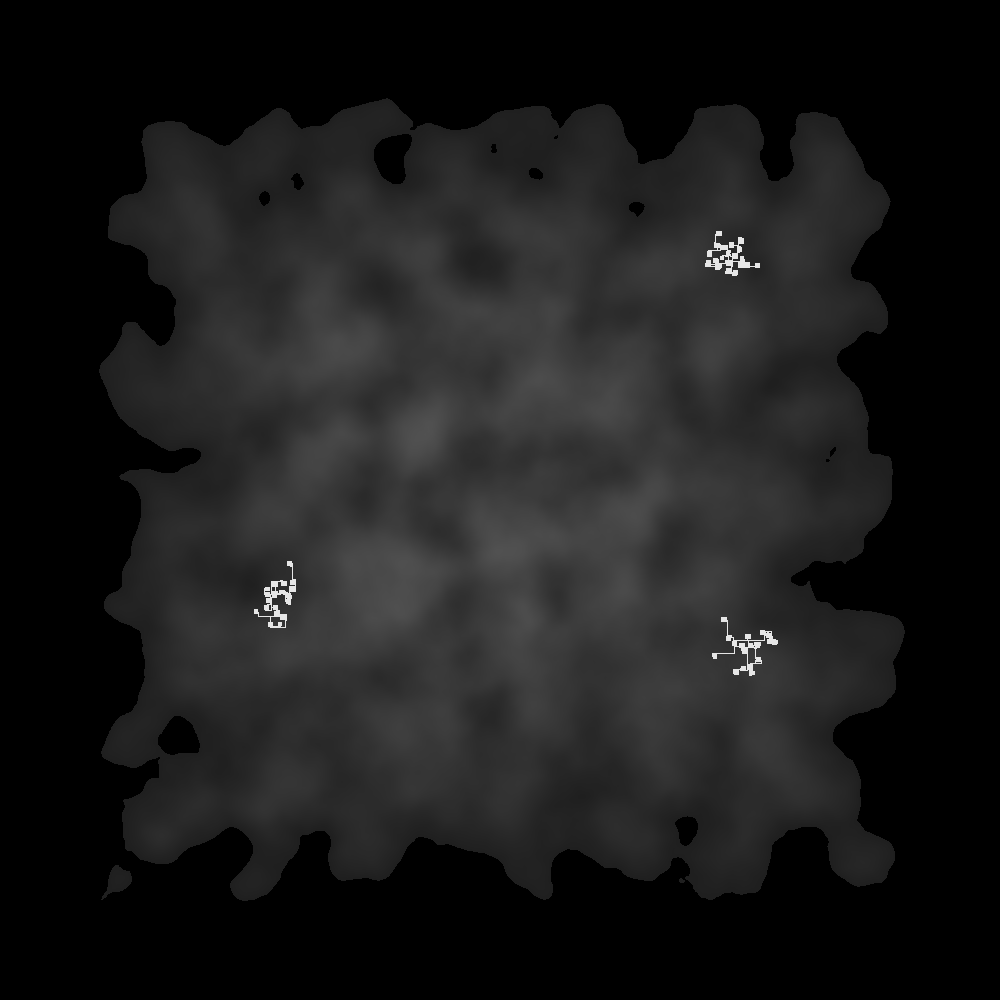
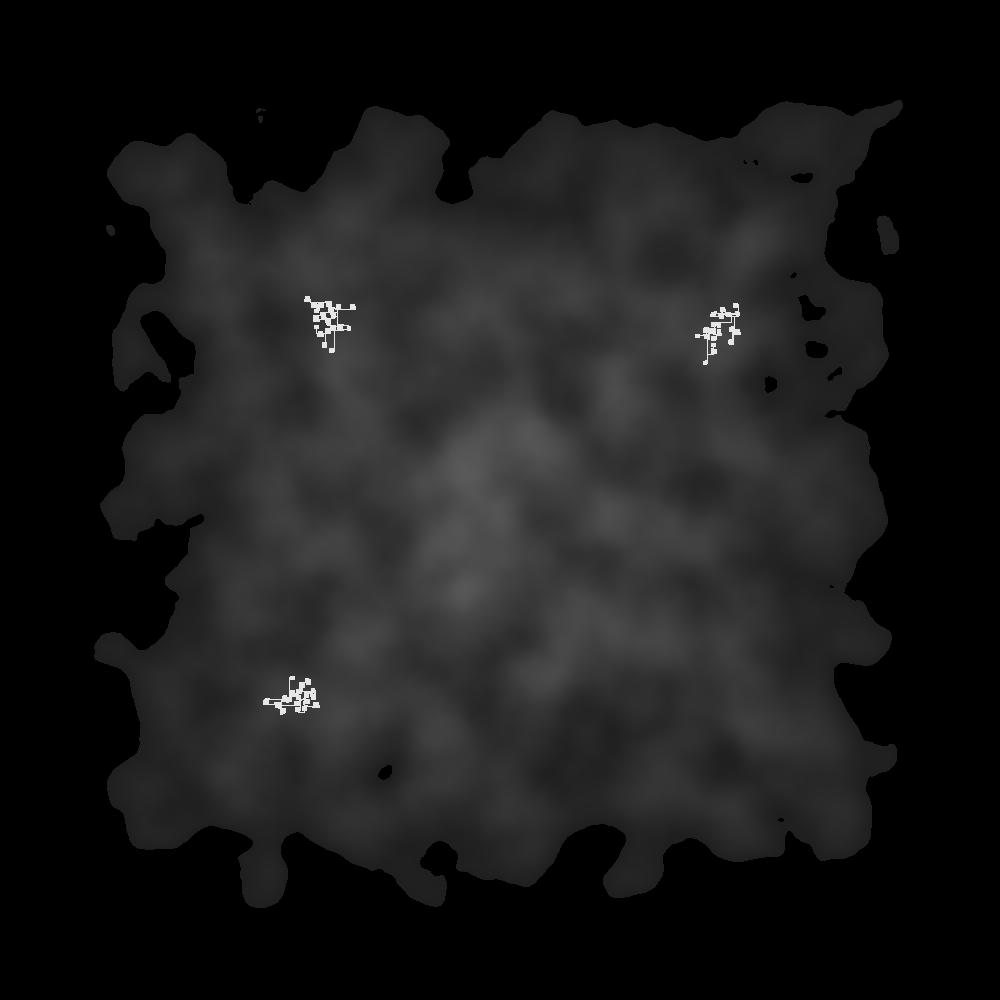
Rain

diff --git a/src/main/Atmosphere.java b/src/main/Atmosphere.java
@@ -12,7 +12,7 @@ class Atmosphere {
 	static boolean shadow = true;
 	static boolean light = true;
 	
-	private static BufferedImage smoke = Main.loadImage("atmospheres/MistyMountains");
+	private static BufferedImage smoke = Main.loadImage("atmospheres/mist");
 	private static Dimension textureSize = new Dimension(
 			smoke.getWidth(), smoke.getHeight());
 	private static Point position = new Point(
